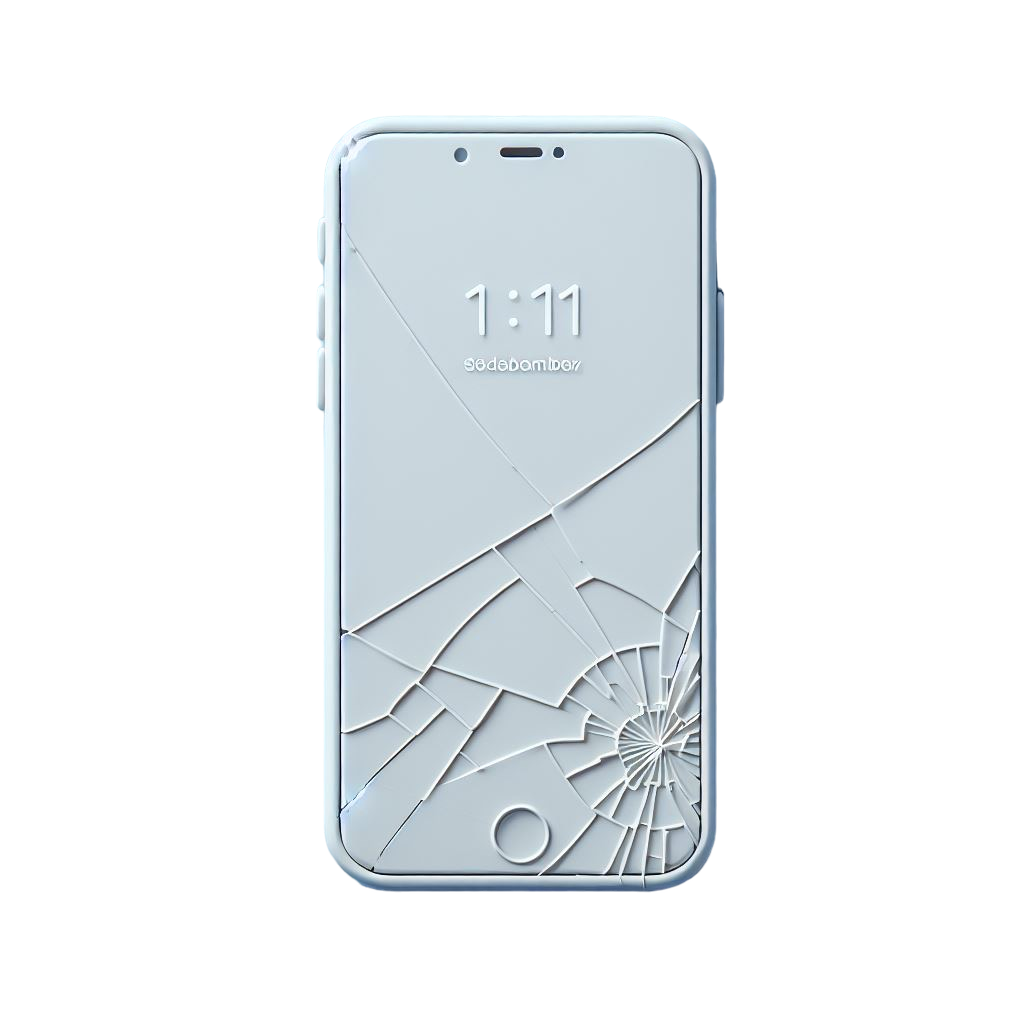
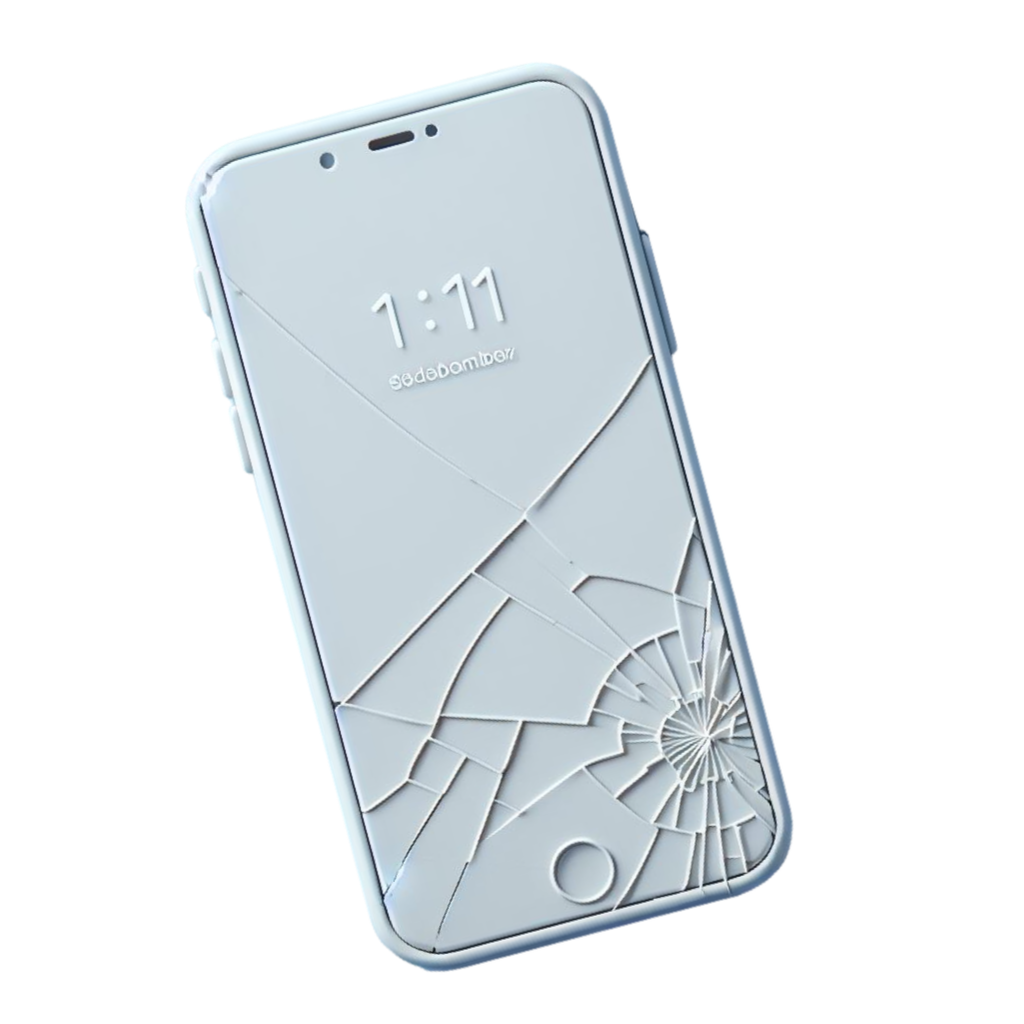
replace phone picture
for rotated phone picture

Changed region(s): [[0.1875, 0.0625, 0.7812, 0.9688], [0.5, 0.4062, 0.625, 0.5312]]

diff --git a/src/app/page.tsx b/src/app/page.tsx
@@ -7,13 +7,7 @@ export default function HomePage() {
   return (
     <div className="flex flex-col items-center justify-center px-2">
       <div className="flex min-h-[100dvh] w-full flex-wrap items-center justify-center">
-        <Image
-          src={assets.phone}
-          priority
-          alt="cracked phone"
-          height={500}
-          style={{ transform: "rotate(-10deg)" }}
-        />
+        <Image src={assets.phone} priority alt="cracked phone" height={500} />
         <div className="flex w-full flex-col items-start justify-center gap-2 md:w-1/3">
           <h1 className="text-5xl font-bold">Захисти смартфон</h1>
           <p className="text-lg">
